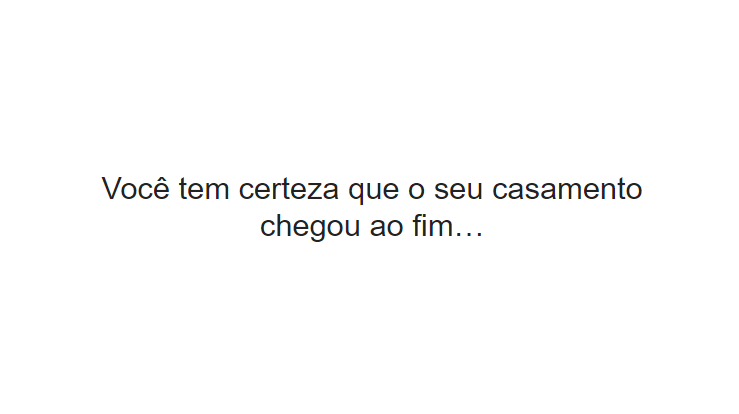
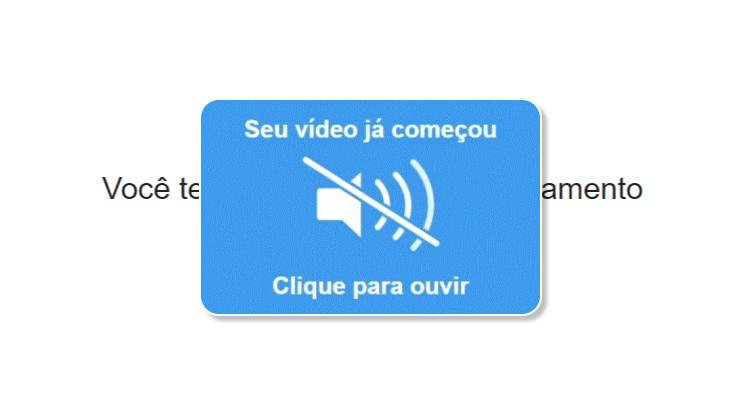
Alterada a capa do vídeo

Changed region(s): [[0.1245, 0.2319, 0.8714, 0.7826]]

diff --git a/app.js b/app.js
@@ -11,6 +11,32 @@ const playVideoHtml = () => {
   });
 };
 
+function mostrar() {
+  document.querySelector(".main__promotion--container").style.display = "block";
+
+  document.querySelector(".main__promotion--container").style.visibility =
+    "visible";
+}
+
+let tMin = 6; //coloque aqui o minuto
+
+let tSeg = 25; //coloque aqui o segundo
+
+let tPitch = tMin * 60000 + tSeg * 1000;
+
+setTimeout("mostrar()", tPitch);
+
+console.log(
+  "p. em:",
+  tPitch,
+  "ms - totalizando",
+  tMin,
+  "minutos",
+  "e",
+  tSeg,
+  "segundos"
+);
+
 function insertDateInHtml() {
   let date = new Date();
   let actualDay = date.getDate();

diff --git a/index.html b/index.html
@@ -50,7 +50,7 @@
       <section class="main__promotion--container">
         <a
           class="main__promotion--container__button"
-          href="https://google.com"
+          href="https://checkout.ticto.com.br/OEA1849EC"
           rel="noreferrer"
           target="_blank"
         >

diff --git a/styles/main_promotion.css b/styles/main_promotion.css
@@ -3,6 +3,10 @@
   text-align: center;
 }
 
+.main__promotion--container {
+  display: none;
+}
+
 .main__promotion--container__button {
   background-color: var(--main-color);
   border-radius: 0.5rem;

diff --git a/styles/main_video.css b/styles/main_video.css
@@ -1,6 +1,7 @@
 .main__video--container {
   display: flex;
   justify-content: center;
+  margin-top: 2rem;
   gap: 5rem;
 }
 
